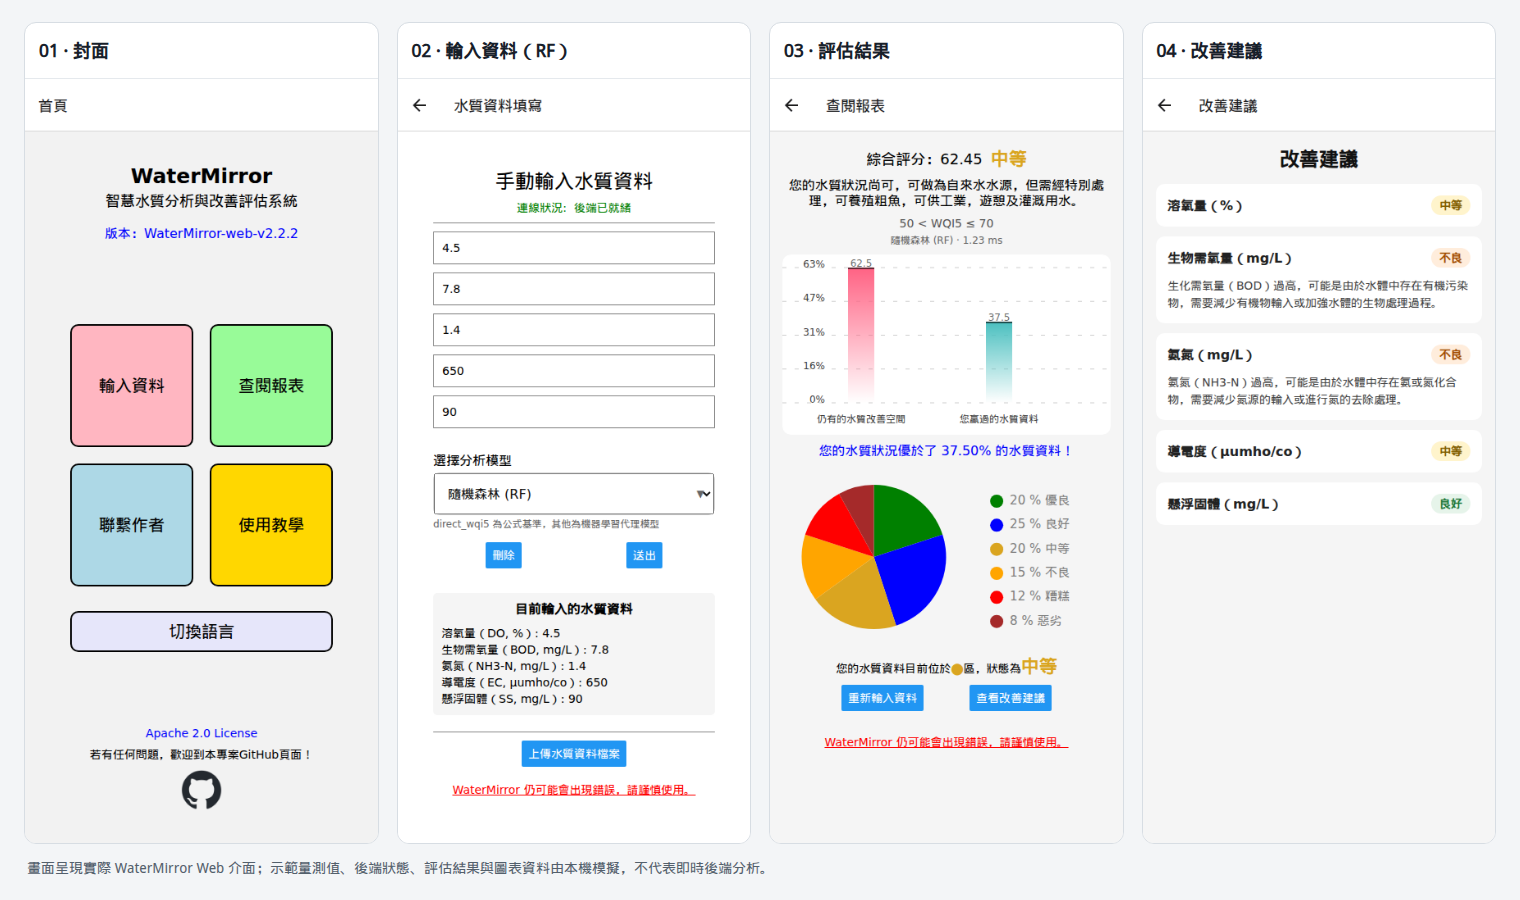
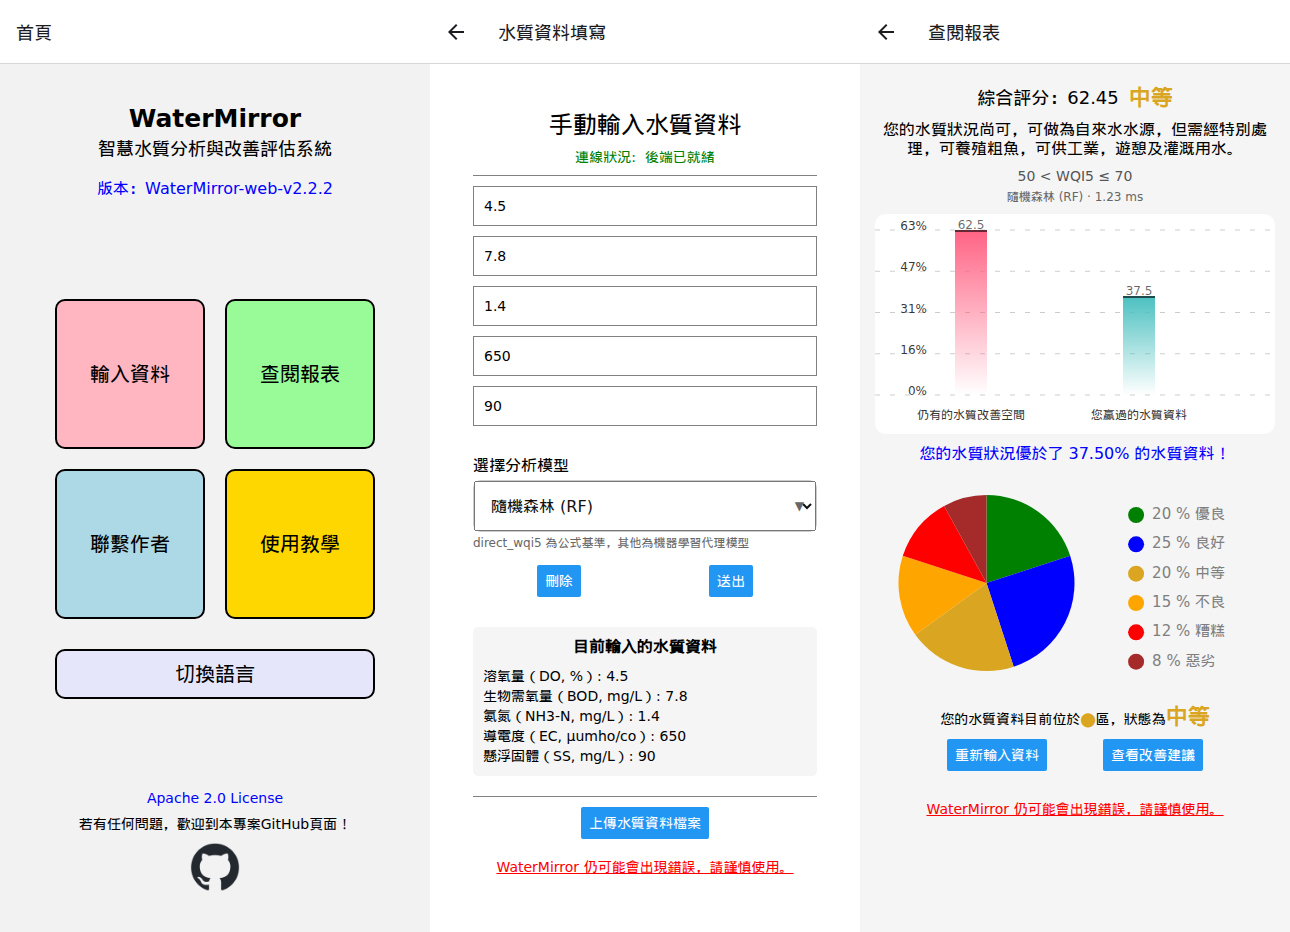
fix: restore original UI and simplify screenshot collage

diff --git a/src/Result.js b/src/Result.js
@@ -8,6 +8,7 @@ import { useTranslation } from 'react-i18next';
 import { apiClient } from '@/utils/apiClient';
 
 const {
+  getAssessmentTranslationKey,
   getCategoryColor,
   getCategoryTranslationKey,
   normalizeResultPayload,
@@ -139,6 +140,85 @@ export default function ResultScreen({ navigation, route }) {
     };
   }, [percentile, t]);
 
+  // 顯示查看改善建議
+  const showMoreAlert = () => {
+    if (!result?.assessment) return;
+    const assessmentEntries = Object.entries(result.assessment);
+    const badValues = assessmentEntries.filter(([, value]) => 
+      value === 'Poor' || value === 'OutOfRange'
+    );
+
+    Alert.alert(
+      t('result.improvement.title'),
+      `${assessmentEntries.map(([key, value]) => {
+        return `${t(`result.improvement.parameters.${key}`)}：${t(`result.waterQuality.${getAssessmentTranslationKey(value)}`)}`;
+      }).join('\n')}\n`,
+      badValues.length === 0
+        ? [{ text: t('result.buttons.iKnow') }]
+        : [
+            { text: t('result.buttons.iKnow') },
+            { text: t('result.buttons.next'), onPress: () => showBadValues(badValues) }
+          ]
+    );
+  };
+
+// 顯示不良水質項目的改善建議
+const showBadValues = (badValues) => {
+  let suggestions = '';
+  badValues.forEach(([key, value], index) => {
+    if (value === 'Poor' || value === 'OutOfRange') {
+      switch (key) {
+        case 'DO':
+          if (value === 'OutOfRange') {
+            suggestions += t('result.improvement.suggestions.DO.error');
+          } else if (value === 'Poor') {
+            suggestions += t('result.improvement.suggestions.DO.poor');
+          }
+          break;
+        case 'BOD':
+          if (value === 'OutOfRange') {
+            suggestions += t('result.improvement.suggestions.BOD.error');
+          } else if (value === 'Poor') {
+            suggestions += t('result.improvement.suggestions.BOD.poor');
+          }
+          break;
+        case 'NH3N':
+          if (value === 'OutOfRange') {
+            suggestions += t('result.improvement.suggestions.NH3N.error');
+          } else if (value === 'Poor') {
+            suggestions += t('result.improvement.suggestions.NH3N.poor');
+          }
+          break;
+        case 'EC':
+          if (value === 'OutOfRange') {
+            suggestions += t('result.improvement.suggestions.EC.error');
+          } else if (value === 'Poor') {
+            suggestions += t('result.improvement.suggestions.EC.poor');
+          }
+          break;
+        case 'SS':
+          if (value === 'OutOfRange') {
+            suggestions += t('result.improvement.suggestions.SS.error');
+          } else if (value === 'Poor') {
+            suggestions += t('result.improvement.suggestions.SS.poor');
+          }
+          break;
+        default:
+          suggestions += `${key} ${t('result.improvement.title')}：\n`;
+      }
+    }
+    if (index !== badValues.length - 1) {
+      suggestions += '\n\n';
+    }
+  });
+
+  Alert.alert(
+    t('result.improvement.title'),
+    suggestions,
+    [{ text: t('result.buttons.iKnow') }]
+    );
+  };
+
   // 資料尚未準備好時顯示載入中
   if (!isReady || !result) {
     return (
@@ -213,7 +293,7 @@ export default function ResultScreen({ navigation, route }) {
         />
         <Button 
           title={t('result.buttons.viewSuggestions')} 
-          onPress={() => navigation.navigate('Suggestions', { assessment: result.assessment })}
+          onPress={showMoreAlert}
         />
       </View>
 

diff --git a/App.js b/App.js
@@ -10,7 +10,6 @@ import i18n from './i18n';
 import HomeScreen from './src/Home';
 import CalcScreen from './src/Calc';
 import ResultScreen from './src/Result';
-import SuggestionsScreen from './src/Suggestions';
 
 const Stack = createNativeStackNavigator();
 
@@ -40,13 +39,6 @@ function AppNavigator() {
         options={() => ({ 
           title: t('nav.result')
         })} 
-      />
-      <Stack.Screen
-        name="Suggestions"
-        component={SuggestionsScreen}
-        options={() => ({
-          title: t('result.improvement.title')
-        })}
       />
     </Stack.Navigator>
   );

diff --git a/README.md b/README.md
@@ -5,10 +5,10 @@
 WaterMirror is a cross-platform mobile frontend for WQI5-based current-state water quality assessment.
 
 <p align="center">
-  <img src="docs/screenshots/readme-flow.png" width="100%" alt="WaterMirror flow: home screen, manual input with Random Forest selected, assessment result, and improvement suggestions" />
+  <img src="docs/screenshots/readme-flow.png" width="100%" alt="WaterMirror home screen, manual input with Random Forest selected, and assessment result" />
 </p>
 
-<p align="center"><sub>From left to right: home, RF input, result, and improvement suggestions. The interface is real; sample measurements, backend-ready status, assessment, percentile, and chart data are simulated locally and do not come from a live backend.</sub></p>
+<p align="center"><sub>Sample measurements and assessment results are simulated locally.</sub></p>
 
 It allows users to:
 
